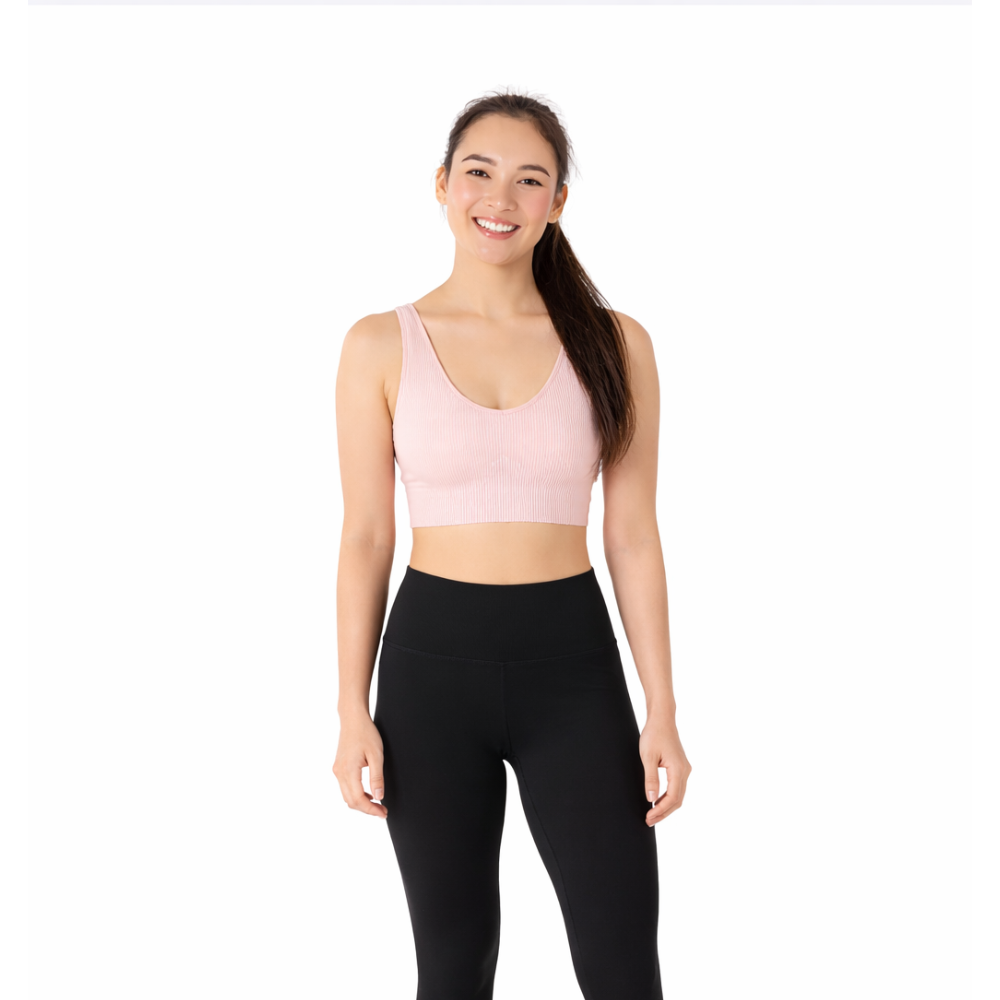
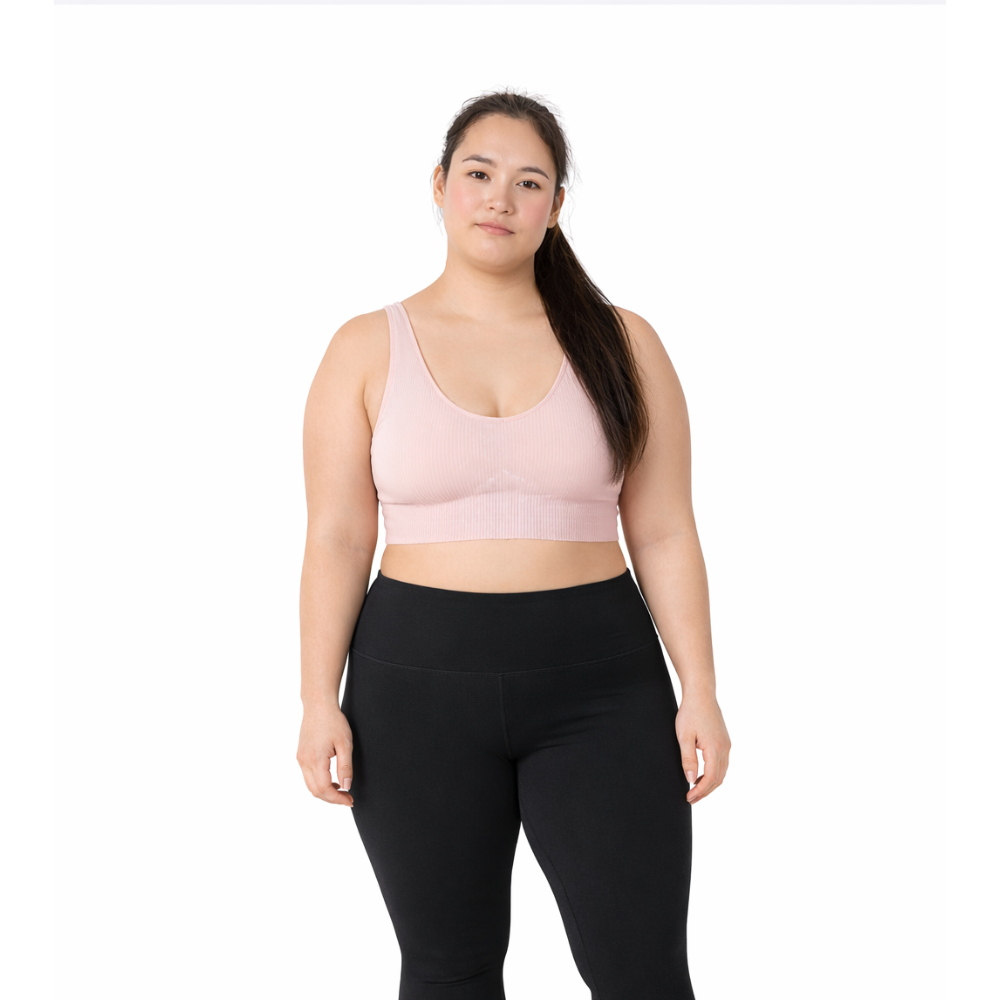
Use age-range images in PersonalSummary
PersonalSummary now chooses the summary image based on the user's age-range response instead of BMI category. The component reads ageRange from getResponse, memoizes the selection on ageRange, and maps ranges to /images/age-25-35.png, /images/age-35-50.png, /images/age-50-65.png, and the newly added /images/age-65-plus.png. Also updates three existing age images and adds the age-65-plus asset.

diff --git a/src/components/quiz/PersonalSummary.tsx b/src/components/quiz/PersonalSummary.tsx
@@ -94,21 +94,22 @@ export function PersonalSummary() {
     return getBMIResult(bmiValue);
   }, [bmiValue]);
 
-  // Select image based on BMI category
+  const ageRange = (getResponse("age-range") as string | undefined) || "";
+
   const summaryImage = useMemo(() => {
-    switch (bmiResult.category) {
-      case "Underweight":
-        return "/images/body-type-regular.png";
-      case "Normal":
-        return "/images/body-type-regular.png";
-      case "Overweight":
-        return "/images/body-type-plump.png";
-      case "Obese":
-        return "/images/body-type-extra.png";
+    switch (ageRange) {
+      case "18-27":
+        return "/images/age-25-35.png";
+      case "27-40":
+        return "/images/age-35-50.png";
+      case "41-50":
+        return "/images/age-50-65.png";
+      case "50+":
+        return "/images/age-65-plus.png";
       default:
-        return "/images/body-type-regular.png";
+        return "/images/age-25-35.png";
     }
-  }, [bmiResult.category]);
+  }, [ageRange]);
 
   const exerciseLabel = getExerciseLabel(exercisePreference);
   const activityLabel = getActivityLabel(activityLevel);
